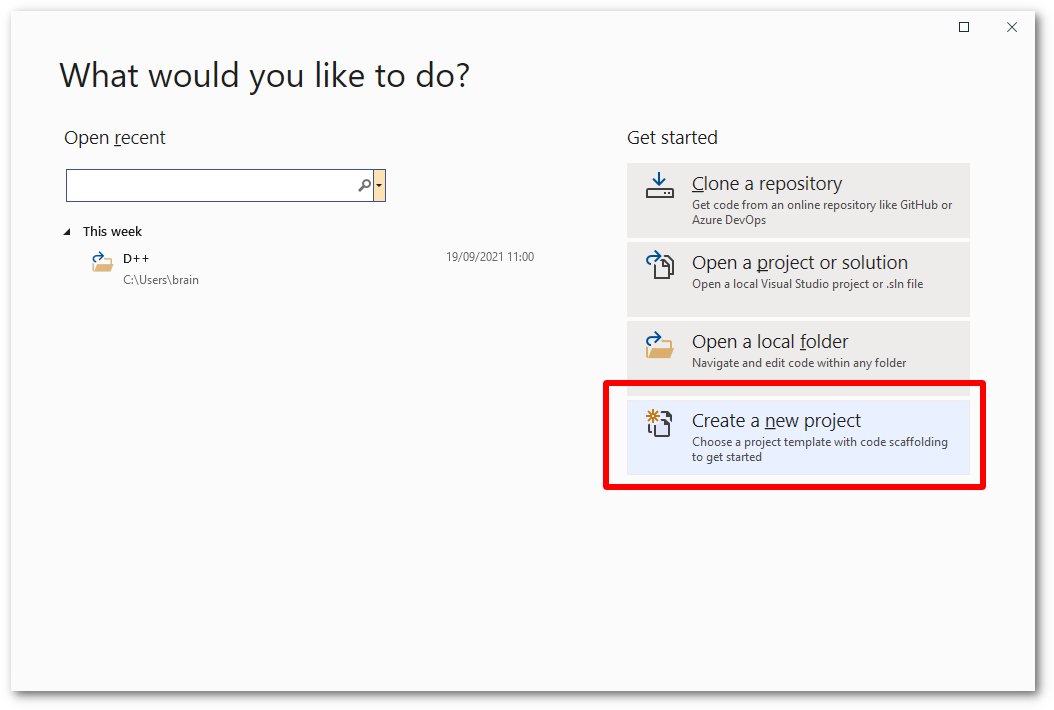
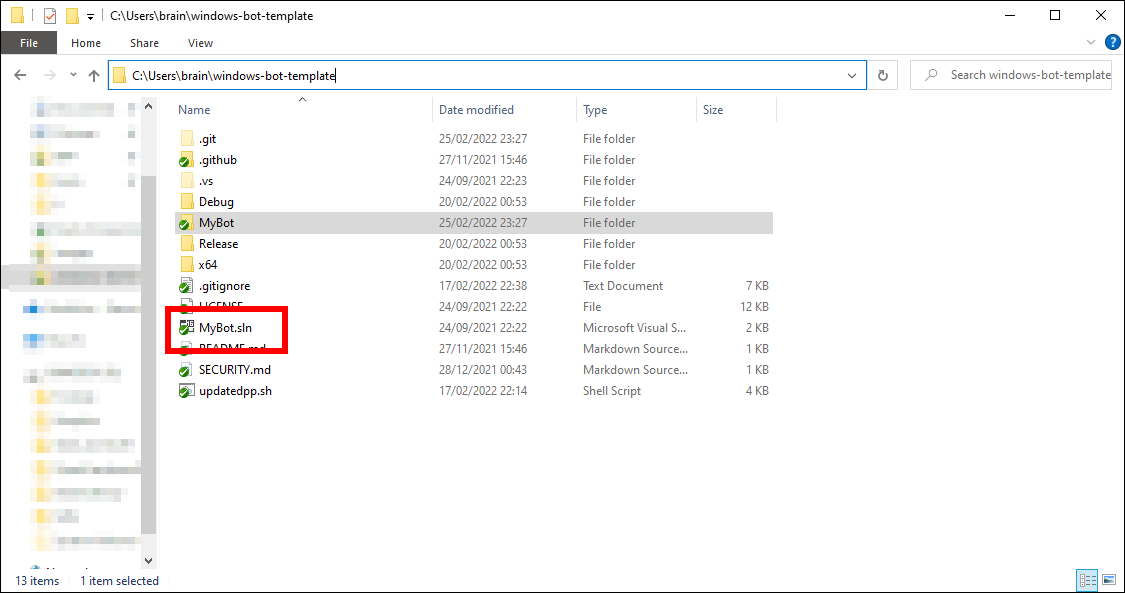
docs: redo windows guides to basically railroad new users to using the template

Changed region(s): [[0.0, 0.0, 1.0, 1.0], [0.6072, 0.2428, 0.9108, 0.3339], [0.5769, 0.1821, 0.6983, 0.2125]]

diff --git a/include/dpp/version.h b/include/dpp/version.h
@@ -21,9 +21,9 @@
 #pragma once
 
 #if !defined(DPP_VERSION_LONG)
-#define DPP_VERSION_LONG 0x00100002
-#define DPP_VERSION_SHORT 100002
-#define DPP_VERSION_TEXT "D++ 10.0.2 (22-Feb-2022)"
+#define DPP_VERSION_LONG 0x00100003
+#define DPP_VERSION_SHORT 100003
+#define DPP_VERSION_TEXT "D++ 10.0.3 (01-Mar-2022)"
 
 #define DPP_VERSION_MAJOR ((DPP_VERSION_LONG & 0x00ff0000) >> 16)
 #define DPP_VERSION_MINOR ((DPP_VERSION_LONG & 0x0000ff00) >> 8)

diff --git a/docpages/02_building_a_bot.md b/docpages/02_building_a_bot.md
@@ -4,11 +4,11 @@ If you are wanting to build a bot using C++, you're in the right place! The fast
 
 Click on a link below for a guide specifically for your system:
 
+* \subpage creating-a-bot-application "Creating a Bot Token"
 * \subpage build-a-discord-bot-windows-visual-studio "Building a discord bot in Windows using Visual Studio"
 * \subpage build-a-discord-bot-windows-wsl "Building a discord bot in Windows using WSL (Windows Subsystem for Linux)"
 * \subpage buildcmake "Building a Discord Bot using CMake/UNIX"
 * \subpage building-a-cpp-discord-bot-in-repl "Creating a Discord bot in Repl.it"
-* \subpage creating-a-bot-application "Creating a Bot Account"
 
 \page buildcmake Building a Discord Bot using CMake/UNIX
 # Building with CMake
@@ -94,40 +94,19 @@ To create a basic bot using **Visual Studio 2019** or **Visual Studio 2022**, fo
 \note This tutorial assumes you are using a pre-built copy of the library from a release, or from one of the artifacts on our github page. This is much easier than building it yourself and in most cases you do not need to build your own copy of the library. You can also skip this entire tutorial, and obtain a [pre-made visual studio template containing the latest D++ build (for 32 and 64 bit, release and debug profiles) by clicking here](https://github.com/brainboxdotcc/windows-bot-template/).
 
 1. Make sure you have Visual Studio 2019 or 2022. Community, Professional or Enterprise work fine. These instructions are not for Visual Studio Code. You can [download the correct version here](https://visualstudio.microsoft.com/downloads/). Note that older versions of Visual Studio will not work as they do not support enough of the C++17 standard.
-2. Start visual studio and choose to create a new project
+2. Clone the [template project](https://github.com/brainboxdotcc/windows-bot-template/). Be sure to clone the entire project and not just copy and paste the cpp file.
+3. Double click on the MyBot.sln file in the folder you just cloned
    \image html vsproj_1.png
-3. Choose the project type "Console Project" and click next
+4. Add your bot token (see \ref creating-a-bot-application) and guild ID to the example program 
    \image html vsproj_2.png
-4. Name your bot project. In this example i just chose the name 'MyBot'. You can have any name you like here.
+5. Click "Local windows debugger" to compile and run your bot!
    \image html vsproj_3.png
-5. Open the zip file you downloaded which contains the D++ dlls, include files and lib file. Drag and drop this to your local machine and make note of where you placed it. This location will be important in later steps.
-   \image html vsproj_4.png
-6. Back inside visual studio, right click on the project (not solution!) in the tree in your visual studio window. choose 'Properties'.
-   \image html vsproj_5.png
-7. The next step is to populate the include directories and library directories sections with the paths to the D++ library and include files. The next steps will guide you through how to do this.
-   \image html vsproj_6.png
-8. Click 'edit' when prompted to edit the include paths section. Add the path to the include folder you extracted to your machine, which we took note of earlier. Note that it is important to add the dpp-10.0 folder, not any other folder, to this list:
-   \image html vsproj_7.png
-9.  Going back to the previous window, now edit the library paths. Again click 'edit' when prompted to edit the library paths section. Add the path to the library folder you extracted to your machine, which we took note of earlier. Note that once more it is important to add the dpp-9.0 folder within it, not any other folder, to this list. Also be aware this is a **different folder** than the one you just added for includes!
-    \image html vsproj_8.png
-10. Double check at this point that all the directories are filled in correctly. They should look generally like the ones in the screenshot below:
-    \image html vsproj_9.png
-11. Go to the general section in the same window now, and look for the drop down list laballed "C++ Language Standard". Make sure the selected option is **C++17 Standard (/std:c++17)**
-    \image html vsproj_10.png
-12. Again within the same window, go to the input section, under the linker category, and add '**dpp.lib;**' to the start of the libraries to include, as shown below:
-    \image html vsproj_11.png
-13. Now you can paste some code into the editor, completely replacing the 'hello world' application that visual studio made for you. The example code here is the basic bot from the first example on this site. You should at this point also double check that the architecture you have selected (in this case x86) matches the version of the dll/lib files you downloaded from the website. This is **important** as if you mismatch them the compilation will just fail.
-    \image html vsproj_12.png
-14. Go to the build menu and choose Build Solution (A handy shortcut for this is to just press **F7**):
-    \image html vsproj_13.png
-15. Observe the build output. There may be warnings, but so long as the build output ends with "1 succeeded" then the process has worked. You may now run your bot!
+6.  Observe the build output. There may be warnings, but so long as the build output ends with "1 succeeded" then the process has worked. You may now run your bot!
     \image html vsproj_14.png
 
 ## Troubleshooting
 
-- If you get an error that a dll is missing (e.g. `dpp.dll` or `opus.dll`) when starting your bot, then simply copy all dlls from the **bin** directory of where you extracted the DPP zip file to, into the same directory where your bot's executable is. You only need to do this once. There should be several of these dll files: `dpp.dll`, `zlib.dll`, `openssl.dll` and `libcrypto.dll` (or similarly named SSL related files), `libsodium.dll` and `opus.dll`.
-- Please note that if you change the architecture (step 13) you must reconfigure all of steps 7 through 12 again as these configurations are specific to each architecture. This is to allow for different sets of precompiled libs, e.g. for `x86`, `x64`, etc.
-- You should run your bot from a command prompt. If you do not, and it exits, you will not be able to see any output as the window will immediately close.
+- If you get an error that a dll is missing (e.g. `dpp.dll` or `opus.dll`) when starting your bot, then simply copy all dlls from the **bin** directory of where you extracted the DPP zip file to, into the same directory where your bot's executable is. You only need to do this once. There should be several of these dll files: `dpp.dll`, `zlib.dll`, `openssl.dll` and `libcrypto.dll` (or similarly named SSL related files), `libsodium.dll` and `opus.dll`. Note the template project does this for you, so you should never encounter this issue.
 - Stuck? You can find us on the [official discord server](https://discord.gg/dpp) - ask away! We don't bite!
 
 \page build-a-discord-bot-windows-wsl Building a discord bot in Windows using WSL (Windows Subsystem for Linux)
@@ -149,7 +128,7 @@ This Tutorial teaches you how to create a lightweight environment for D++-develo
 9. Add code to your CXX file and compile it by running `g++ -std=c++17 *.cxx -o bot -ldpp` in the same folder as your cxx file.
 10. start your bot by typing `./bot`!
 
-\page creating-a-bot-application Creating a Bot Account
+\page creating-a-bot-application Creating a Bot Token
 
 Before you start coding, you need to create and register your bot in the Discord developer portal. You can then add this bot to your Discord-server.
 

diff --git a/docpages/02_build.md b/docpages/02_build.md
@@ -57,8 +57,11 @@ If you are having trouble setting up CMake, you can try [our template bot](https
 
 To build on windows follow these steps *exactly*. The build process depends on specific libraries being installed on your system in specific locations.
 
-\note **You do not need to build a copy from source** -- we have done this for you. Unless you consider yourself an **advanced user** you should [obtain a pre-made visual studio template containing the latest D++ build (for 32 and 64 bit, release and debug profiles) by clicking here](https://github.com/brainboxdotcc/windows-bot-template/) and completely skip this guide!
+## Wait a minute! Read this first!
 
+Note that **you do not need to follow this tutorial unless you plan to contribute to or modify the library itself**. Unless you consider yourself an **advanced user** with a specific **requirement to build from source** you should [obtain a pre-made visual studio template containing the latest D++ build (for 32 and 64 bit, release and debug profiles) by clicking here](https://github.com/brainboxdotcc/windows-bot-template/) and completely skip this guide! Instead, read \ref build-a-discord-bot-windows-visual-studio.
+
+## If you are absolutely sure you need this guide, read on:
 
 1. Make sure you have Visual Studio 2019 or Visual Studio 2022. The Community, Professional or Enterprise versions all work, however you will probably want to install Community. You do **NOT** want to use *Visual Studio Code* for this. You can [download the correct version here](https://visualstudio.microsoft.com/downloads/).
 2. Check out the DPP project source using git
